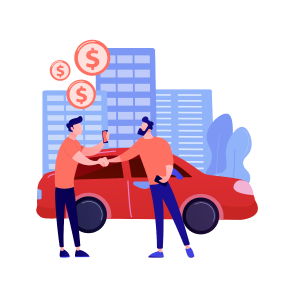
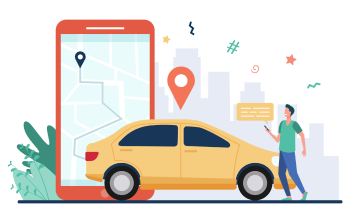
update: updated the gettingnstarted one screeb

diff --git a/screens/GettingStarted.jsx b/screens/GettingStarted.jsx
@@ -1,93 +1,118 @@
-import { Image, ScrollView, StyleSheet, Text, TouchableOpacity, View } from 'react-native'
-import React from 'react'
-import { Button, GettingStartedFooter, Logo } from '../components'
-import { blackColor, primaryColor, secondaryColor, whiteColor } from '../assets/colors'
-import { lato } from '../fonts'
-import { useNavigation } from '@react-navigation/native'
-import { NavNames } from '../data/general'
-import { ArrowRight } from '../assets/icons'
-import { OnboardingBackgroundOne, OnboardingOneImage } from '../assets/images'
+import {
+  Image,
+  ScrollView,
+  StyleSheet,
+  Text,
+  TouchableOpacity,
+  View
+} from "react-native";
+import React from "react";
+import { Button, GettingStartedFooter, Logo } from "../components";
+import {
+  blackColor,
+  primaryColor,
+  secondaryColor,
+  whiteColor
+} from "../assets/colors";
+import { lato } from "../fonts";
+import { useNavigation } from "@react-navigation/native";
+import { NavNames } from "../data/general";
+import { ArrowRight } from "../assets/icons";
+import { OnboardingBackgroundOne, OnboardingOneImage } from "../assets/images";
 
 const GettingStarted = () => {
-    
-    const { navigate } = useNavigation();
+  const { navigate } = useNavigation();
   return (
-    <View style={{
+    <View
+      style={{
         flex: 1,
         backgroundColor: whiteColor.default
-    }}>
+      }}
+    >
+      <Image
+        source={OnboardingBackgroundOne}
+        style={{
+          height: "100%",
+          resizeMode: "contain",
+          width: "100%",
+          position: "absolute"
+        }}
+      />
 
-    <Image source={OnboardingBackgroundOne} style={{
-      height: "100%",
-      resizeMode: "contain",
-      width: '100%',
-      position: "absolute"
-
-    }} />
-
-        <View style={{
-            flex: 1,
-            position: "relative",
-            justifyContent: "flex-end",
-            alignItems: "center",
-            gap: 40,
-            paddingHorizontal: 20
-        }}> 
-
-        <Image source={OnboardingOneImage} style={{
-          flex: 1/1.5,
-          resizeMode: "contain"
-
-        }} />
-
-        <Text style={{
-          color: primaryColor.default,
-          fontFamily: lato.bold.default,
-          maxWidth: 280,
-          textAlign: "center",
-          fontSize: 25
-        }}>Make money when you drive</Text>
-        <Text style={{
-          color: blackColor.opacity500,
-          fontFamily: lato.regular.default,
-          maxWidth: 250,
-          textAlign: "center",
-          fontSize: 15
-        }}>Making money for driving just got easier and better</Text>
-
-        <View style={{
-          flexDirection: "row",
+      <View
+        style={{
+          flex: 1,
+          position: "relative",
+          justifyContent: "flex-end",
           alignItems: "center",
-          justifyContent: "center",
-          gap: 10
-        }}>
+          gap: 40,
+          paddingHorizontal: 20
+        }}
+      >
+        <Image
+          source={OnboardingOneImage}
+          style={{
+            flex: 1 / 1.5,
+            resizeMode: "contain"
+          }}
+        />
 
-          <View style={{
-            width: 10,
-            height: 10,
-            backgroundColor: primaryColor.default,
-            borderRadius: 100,
+        <Text
+          style={{
+            color: primaryColor.default,
+            fontFamily: lato.bold.default,
+            maxWidth: 280,
+            textAlign: "center",
+            fontSize: 25
+          }}
+        >
+          Get a ride in minutes
+        </Text>
+        <Text
+          style={{
+            color: blackColor.opacity500,
+            fontFamily: lato.regular.default,
+            maxWidth: 250,
+            textAlign: "center",
+            fontSize: 15
+          }}
+        >
+          Instantly get a ride to any where you want to go in minutes
+        </Text>
 
-          }}></View>
+        <View
+          style={{
+            flexDirection: "row",
+            alignItems: "center",
+            justifyContent: "center",
+            gap: 10
+          }}
+        >
+          <View
+            style={{
+              width: 10,
+              height: 10,
+              backgroundColor: primaryColor.default,
+              borderRadius: 100
+            }}
+          />
 
-          <View style={{
-            width: 10,
-            height: 10,
-            backgroundColor: blackColor.opacity200,
-            borderRadius: 100,
-            
-          }}></View>
-
+          <View
+            style={{
+              width: 10,
+              height: 10,
+              backgroundColor: blackColor.opacity200,
+              borderRadius: 100
+            }}
+          />
         </View>
-            
-        </View>
-
+      </View>
 
       <GettingStartedFooter />
     </View>
-  )
-}
+  );
+};
 
-export default GettingStarted
+export default GettingStarted;
 
-const styles = StyleSheet.create({})
+const styles = StyleSheet.create({});

diff --git a/App.js b/App.js
@@ -33,7 +33,7 @@ export default function App() {
         <AppContainer>
 
           <NavigationContainer >
-            <Stack.Navigator initialRouteName={NavNames.Navigation.name}>
+            <Stack.Navigator initialRouteName={NavNames.GettingStarted.name}>
               <Stack.Group screenOptions={{
                   animation:"slide_from_right",
                   headerShown: false
